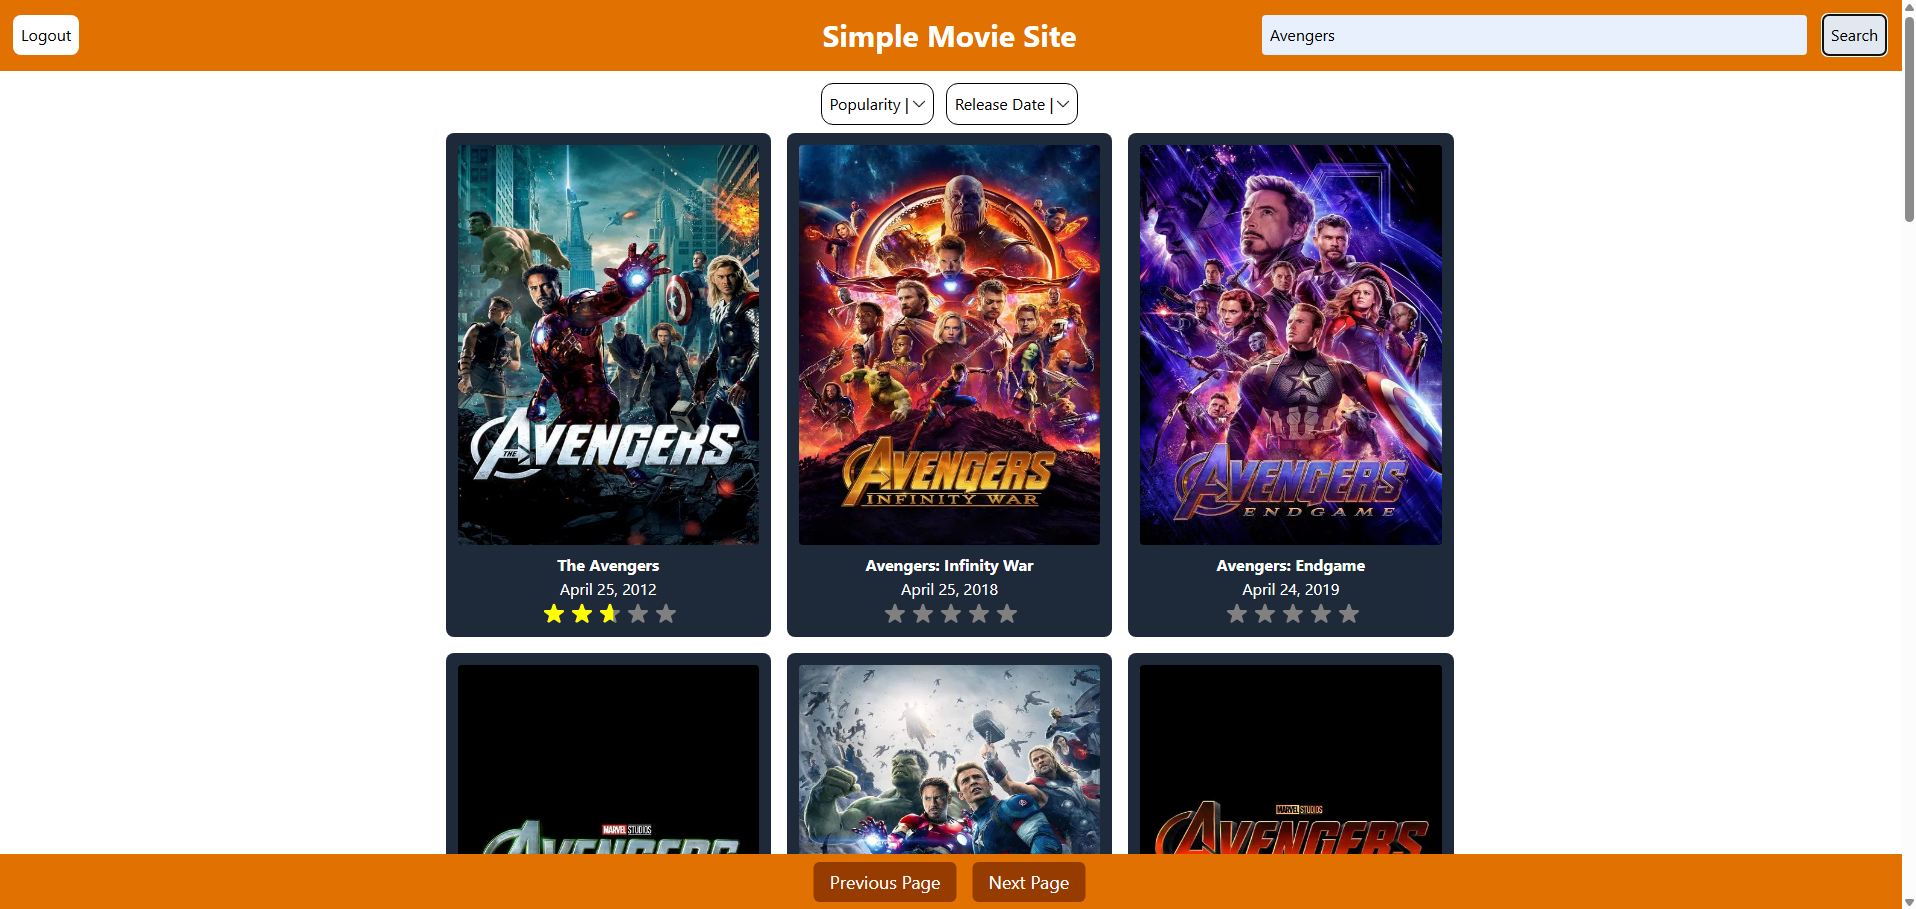
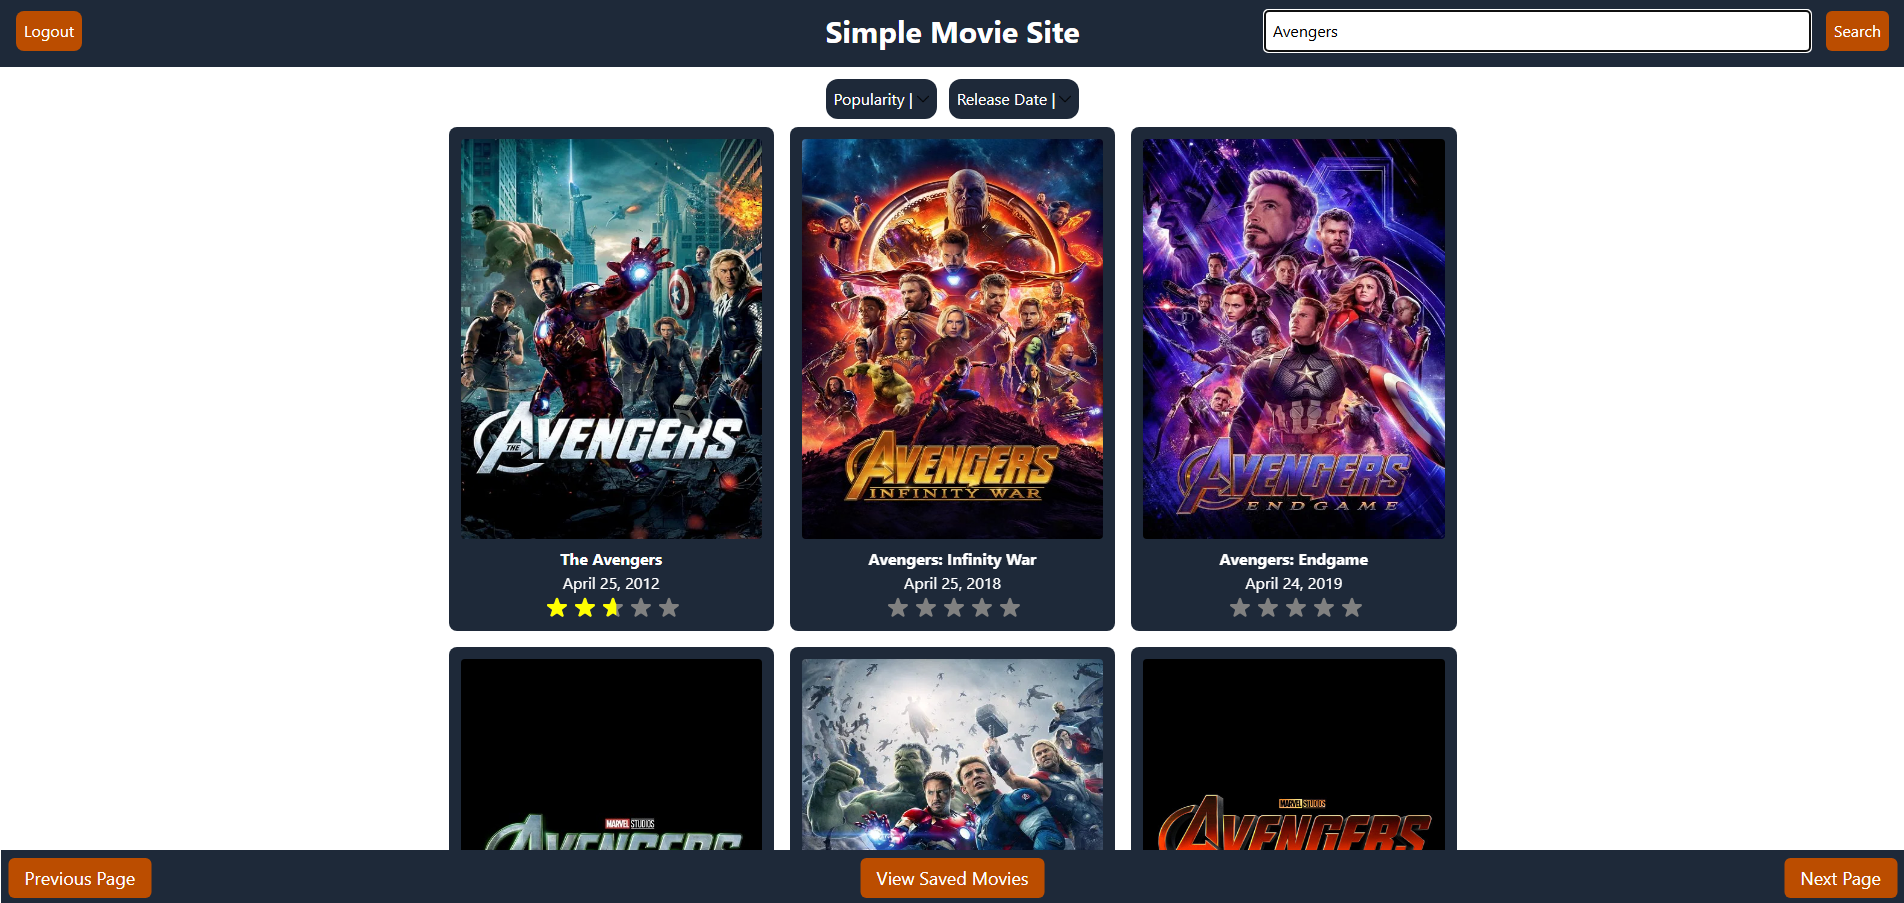
Updated README and Notes.

diff --git a/README.md b/README.md
@@ -28,11 +28,15 @@ A React + Express application where users can browse movies, submit reviews with
 
 ### A full view of the website with movies loaded (mobile):
 
-![A view of the details page for a specific movie.](./assets/movieasset3.png)
+![A full view of the website with movies loaded on mobile.](./assets/movieasset3.png)
 
 ### A view of the details page for a specific movie (mobile):
 
-![A view of the details page for a specific movie.](./assets/movieasset4.png)
+![A view of the details page for a specific movie on mobile.](./assets/movieasset4.png)
+
+### A view of the saved movies page (desktop):
+
+![A view of the saved movies page.](./assets/movieasset5.png)
 
 ## Installation
 
@@ -84,6 +88,18 @@ CREATE TABLE reviews (
   review_number INTEGER NOT NULL,
   created_at TIMESTAMP DEFAULT CURRENT_TIMESTAMP
 );
+
+CREATE TABLE saved_movies (
+    id SERIAL PRIMARY KEY,
+    user_id INTEGER NOT NULL,
+    movie_id INTEGER NOT NULL,
+    saved_at TIMESTAMPTZ DEFAULT NOW(),
+
+    UNIQUE (user_id, movie_id),
+
+    FOREIGN KEY (user_id) REFERENCES users(id) ON DELETE CASCADE
+);
+
 ```
 
 ### Running the app:
@@ -110,6 +126,8 @@ npm run dev
 
 - Reviews are submitted and appear immediately without refreshing.
 
+- Save movies to watch them later or remove them from the list.
+
 ---
 
 ## Technologies
@@ -126,6 +144,8 @@ npm run dev
 
 - Some movies may not have posters.
 - Requires a TMDB API key.
+- Mobile UI needs to be updated for watch later button, currently broken.
+- Code for fetching and saving movies to watch later is messy and needs to be refactored.
 
 ## License
 
